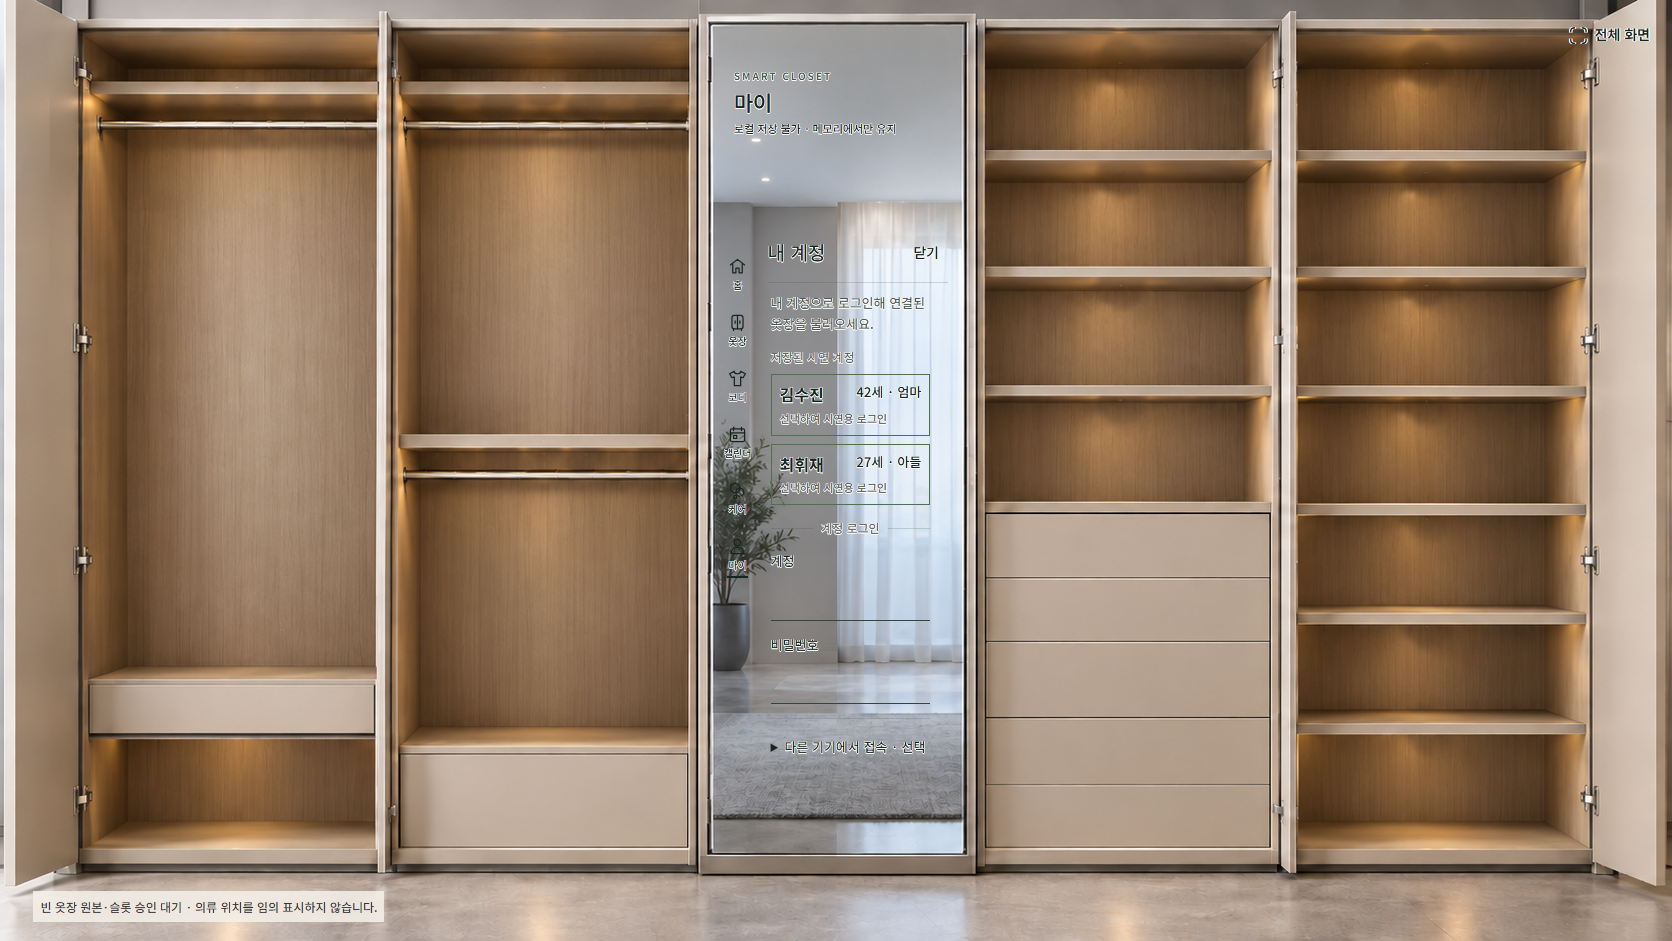
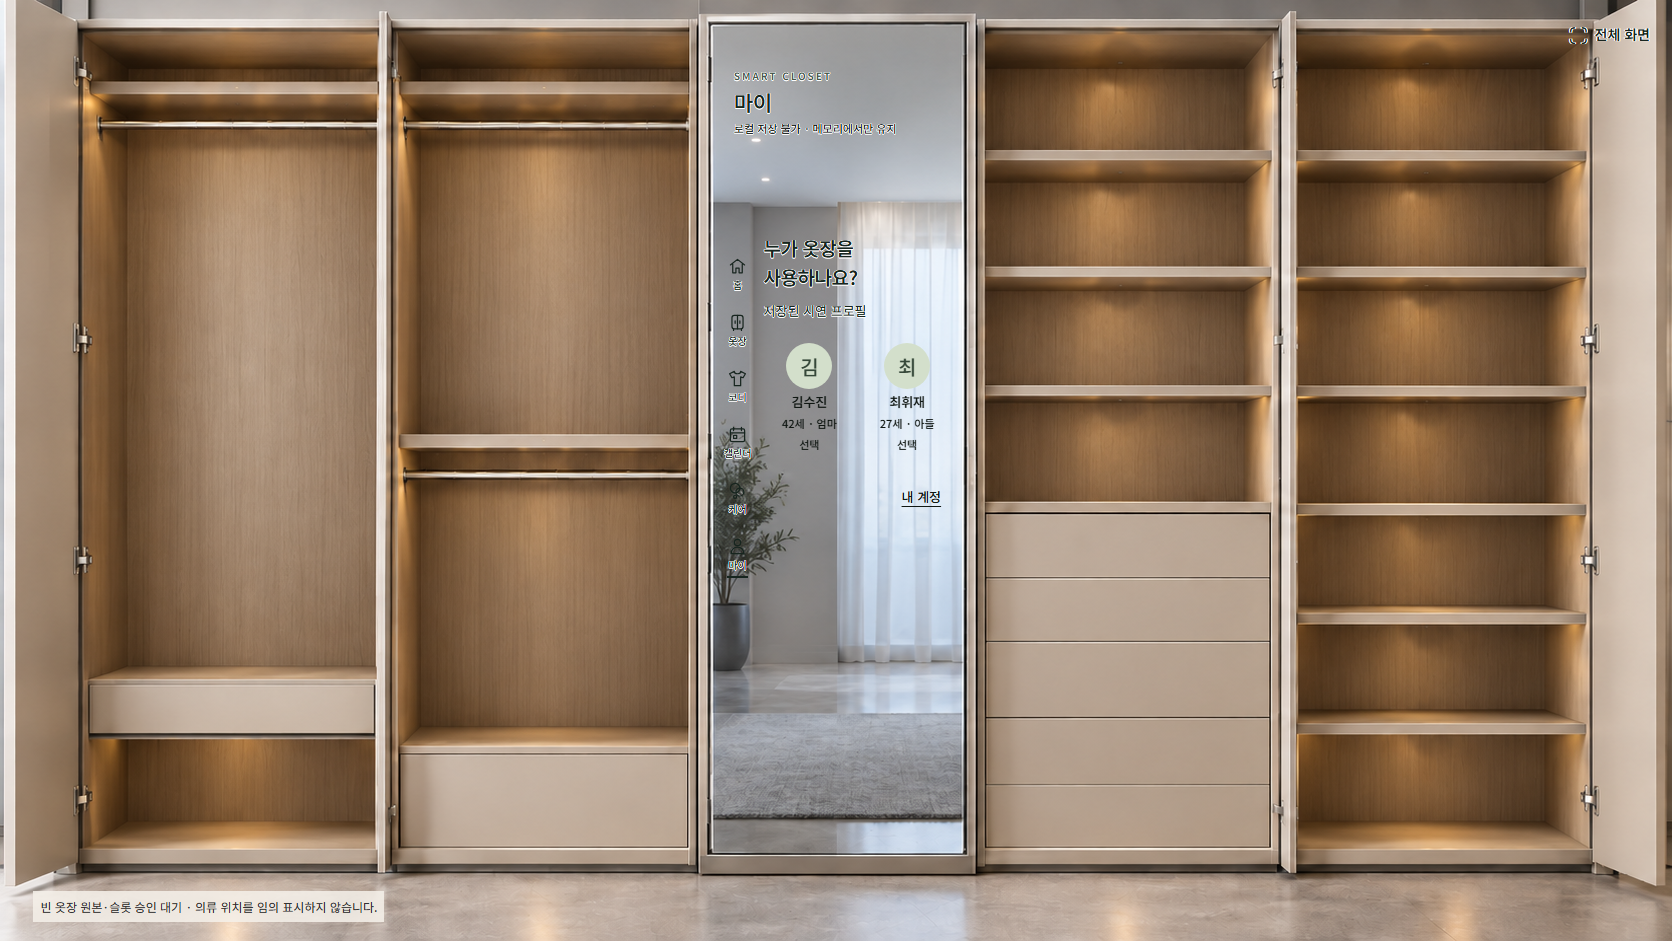
fix: place demo personas in wardrobe profile selector

diff --git a/web/src/mirror/source/MirrorProfiles.tsx b/web/src/mirror/source/MirrorProfiles.tsx
@@ -1,8 +1,9 @@
-import { useState, useSyncExternalStore } from "react";
+import { useEffect, useState, useSyncExternalStore } from "react";
 import type { DemoApp } from "./core/app";
 import { HorizontalPager } from "./HorizontalPager";
 import { permittedMirrorProfiles } from "./mirrorPanelData";
 import "./mirror-panels.css";
+import { HttpRemoteBackend, currentMember } from "./integrations/backendClient";
 
 export function MirrorProfiles({
   app,
@@ -16,7 +17,25 @@ export function MirrorProfiles({
   const state = useSyncExternalStore(app.subscribe, app.getState),
     [page, setPage] = useState(0),
     local = app.connection.kind === "local";
-  const profiles = permittedMirrorProfiles(state, app.connection.kind),
+  const [demoProfiles, setDemoProfiles] = useState<Awaited<ReturnType<HttpRemoteBackend["demoProfiles"]>>>([]);
+  const [busy, setBusy] = useState(false), [error, setError] = useState("");
+  useEffect(() => {
+    let active = true;
+    void new HttpRemoteBackend().demoProfiles().then(items => {
+      if (active) setDemoProfiles(items);
+    }).catch(() => { if (active) setDemoProfiles([]); });
+    return () => { active = false; };
+  }, []);
+  const profiles = [
+    ...demoProfiles.map(profile => ({id: `saved-demo-${profile.profile}`, name: profile.display_name,
+      details: `${profile.age}세 · ${profile.relationship}`, demo: profile.profile,
+      selected: currentMember()?.display_name === profile.display_name})),
+    ...permittedMirrorProfiles(state, app.connection.kind)
+      .filter(profile => !demoProfiles.length || (!["demo-profile", "signed-out"].includes(profile.id) &&
+        !demoProfiles.some(demo => demo.display_name === profile.name)))
+      .map(profile => ({...profile, details: "", demo: undefined,
+        selected: profile.id === state.activeProfileId})),
+  ],
     pages = Array.from({ length: Math.ceil(profiles.length / 4) }, (_, index) =>
       profiles.slice(index * 4, index * 4 + 4),
     );
@@ -28,7 +47,7 @@ export function MirrorProfiles({
         사용하나요?
       </h1>
       <p className="mx-panel-note">
-        {local ? "이 브라우저의 시연 프로필" : "현재 로그인에 허용된 프로필"}
+        {demoProfiles.length ? "저장된 시연 프로필" : local ? "이 브라우저의 시연 프로필" : "현재 로그인에 허용된 프로필"}
       </p>
       <HorizontalPager
         index={Math.min(page, Math.max(0, pages.length - 1))}
@@ -46,21 +65,39 @@ export function MirrorProfiles({
                 key={profile.id}
                 data-profile-id={profile.id}
                 aria-label={`${profile.name} 프로필 선택`}
-                aria-pressed={profile.id === state.activeProfileId}
-                onClick={() => onSelectProfile(profile.id)}
+                aria-pressed={profile.selected}
+                disabled={busy}
+                onClick={async () => {
+                  if (!profile.demo) { onSelectProfile(profile.id); return; }
+                  if (profile.selected) return;
+                  setBusy(true); setError("");
+                  try {
+                    const client = new HttpRemoteBackend();
+                    if (currentMember()) await client.logout();
+                    await app.configureRemote();
+                    await client.demoLogin(profile.demo);
+                    await app.configureRemote(client);
+                  } catch (e) {
+                    await new HttpRemoteBackend().logout().catch(() => {});
+                    await app.configureRemote();
+                    setError((e as Error).message);
+                  } finally { setBusy(false); }
+                }}
               >
                 <span className="mx-profile-avatar" aria-hidden="true">
                   {Array.from(profile.name.trim())[0] ?? "나"}
                 </span>
                 <strong>{profile.name}</strong>
+                {profile.details && <small>{profile.details}</small>}
                 <small>
-                  {profile.id === state.activeProfileId ? "사용 중" : "선택"}
+                  {profile.selected ? "사용 중" : "선택"}
                 </small>
               </button>
             ))}
           </div>
         ))}
       </HorizontalPager>
+      {error && <p role="alert" className="mx-panel-note">{error}</p>}
       {!local && profiles.length === 1 && (
         <p className="mx-panel-note">
           현재 로그인 계정의 프로필을 표시해요. 연결된 기기의 의류는 함께 조회할

diff --git a/web/src/mirror/source/BackendPanel.tsx b/web/src/mirror/source/BackendPanel.tsx
@@ -38,14 +38,6 @@ export function BackendPanel({
     [message, setMessage] = useState(""),
     [busy, setBusy] = useState(false);
   const connected = !!currentMember();
-  const [profiles, setProfiles] = useState<Awaited<ReturnType<HttpRemoteBackend["demoProfiles"]>>>([]);
-  useEffect(() => {
-    let active = true;
-    void new HttpRemoteBackend().demoProfiles().then(items => {
-      if (active) setProfiles(items);
-    }).catch(() => { if (active) setProfiles([]); });
-    return () => { active = false; };
-  }, []);
   const submit = async () => {
     setBusy(true);
     try {
@@ -127,27 +119,14 @@ export function BackendPanel({
           }}
         >
           <p className="mirror-account-intro">내 계정으로 로그인해 연결된 옷장을 불러오세요.</p>
-          {profiles.length > 0 ? <div className="mirror-demo-profiles">
-            <span className="mirror-account-caption">저장된 시연 계정</span>
-            {profiles.map(profile => <button
-              key={profile.profile}
-              className="mirror-account-demo mirror-demo-profile"
-              type="button"
-              disabled={busy}
-              onClick={() => void demoLogin(profile.profile)}
-            >
-              <strong>{profile.display_name}</strong>
-              <span>{profile.age}세 · {profile.relationship}</span>
-              <small>선택하여 시연용 로그인</small>
-            </button>)}
-          </div> : <button
+          <button
             className="mirror-account-demo"
             type="button"
             disabled={busy}
             onClick={() => void demoLogin()}
           >
             시연용 로그인
-          </button>}
+          </button>
           <div className="mirror-account-divider"><span>계정 로그인</span></div>
           <label>
             계정

diff --git a/web/src/mirror/source/mirror-account.css b/web/src/mirror/source/mirror-account.css
@@ -40,11 +40,6 @@
 .mx-auth-dialog .mirror-account-optional p { margin: 0 0 12px; font-size: 12px; }
 .mirror-account-identity { display: flex; flex-direction: column; gap: 6px; }
 .mirror-account-caption { font-size: 12px; color: #576257; }
-.mirror-demo-profiles { display: flex; flex-direction: column; gap: 8px; }
-.mirror-demo-profile { display: grid; grid-template-columns: 1fr auto; gap: 4px 8px; text-align: left; }
-.mirror-demo-profile strong { font-size: 16px; }
-.mirror-demo-profile span { font-size: 13px; }
-.mirror-demo-profile small { grid-column: 1 / -1; font-size: 11px; color: #576257; }
 .mx-auth-dialog .mirror-account-identity > strong { font-size: 18px; }
 .mx-auth-dialog .mirror-account-device p { margin: 0; font-size: 12px; font-family: monospace; }
 .mx-auth-dialog .mirror-account-actions { display: flex; flex-direction: column; gap: 8px; }

diff --git a/docs/handoff/SMART_WARDROBE_CODEX_HANDOFF_2026-10-11/reports/REMEDIATION_CHECKPOINT.md b/docs/handoff/SMART_WARDROBE_CODEX_HANDOFF_2026-10-11/reports/REMEDIATION_CHECKPOINT.md
@@ -59,8 +59,8 @@ shower cold read는 판정/재개 발췌문을 읽었으며 전체 보고서 검
 
 기존 가족 구성원은 4명이며 아빠·딸 데이터도 유지한다. 저장된 시연 로그인 버튼만 엄마·아들 두 개로 제공한다. 공개 환경 차단 테스트는 목록 items=[] 및 프로필 선택 로그인403을 실DB 테스트로 확인했다. 이번 계정 기능은 검증 통과했으며, 전체 PARTIAL은 앞서 기록한 카드 Gate A/B 등 별도 미완료 사항에 대한 판정이다.
 
-마이 → 내 계정에 두 프로필을 저장된 시연 계정으로 표시한다. 선택 시 실제 JWT 세션을 발급한다. 두 사람이 동시에 로그인된 것으로 꾸미거나 비밀번호·토큰을 카드에 저장하지 않는다. 로그아웃 후에도 프로필 두 개를 다시 선택할 수 있다. 전환은 로그아웃 → 다른 프로필 선택 순서다.
+마이의 **누가 옷장을 사용하나요?** 기존 프로필 선택 화면에 김수진·최휘재 두 프로필을 표시한다. 내 계정에 잘못 추가했던 선택 UI는 제거했다. 이름·나이·엄마/아들·사용 중 상태는 기존 프로필 디자인으로 표시한다. 선택 시 실제 JWT 세션을 발급하며, 다른 프로필 선택 시 이전 세션을 서버에서 로그아웃한 다음 새로 로그인한다. 비밀번호·토큰을 카드에 저장하지 않는다. 로그인 필요/기본 시연 사용자 placeholder는 두 프로필이 제공될 때 표시하지 않는다. 일반 로그인 계정은 기존 허용 프로필 계약을 유지하고 가족 계정으로 위임하지 않는다.
 
 GET /integration/demo-profiles 및 기존 POST /integration/demo-login의 선택적 profile=mother|son을 추가했다. 기존 빈 요청 로그인과 공개 demo 경로는 유지한다. 로컬 프로필 선택은 비공개 local/test DEMO에서만 허용하며 enabled credential·명시적 member ID·같은 가구의 기기 접근을 확인한다. 엄마 OWNER 역할은 명시적 로컬 엄마 ID에만 허용한다. 운영·공개 배포에서는 프로필 목록이 비어 있고 이 선택 경로는 차단된다.
 
-재현: 루트 `.venv/Scripts/python.exe scripts/remediation_local.py personas`(격리 DB 이름만 갱신), `serve`(API 18081; LOCAL_DEMO_MEMBER_ID 및 LOCAL_DEMO_MOTHER_MEMBER_ID 자동 설정). web에서 `npm run dev -- --host 127.0.0.1 --port 5193`, `node test/demo-personas-browser.mjs`. 브라우저 테스트는 두 계정 각각 로그인 → 가족 의류52/사진52/소유자4 → 로그아웃 → 프로필 재표시를 확인했다. 계정 ID 서로 다름, page error0, PASS. backend demo-login 실DB4 tests 및 web38 tests PASS, TypeScript/Vite build·Ruff PASS(기존 bundle 크기 경고). 증적: evidence/remediation/demo-personas.png 및 demo-personas-browser.json. API 재기동 후 최신 기능 제공, 원격push/배포/운영 DB 변경 없음. 전체 시정 PARTIAL 판정 유지.
+재현: 루트 `.venv/Scripts/python.exe scripts/remediation_local.py personas`(격리 DB 이름만 갱신), `.venv/Scripts/python.exe scripts/remediation_local.py serve`(API 18081; 두 로컬 ID 자동 설정). web에서 `npm run dev -- --host 127.0.0.1 --port 5193`, `node test/demo-personas-browser.mjs`. 브라우저 테스트는 마이 → 프로필 선택에서 엄마 → 아들 → 엄마 직접 전환, 각 계정 가족 의류52/사진52/소유자4, 사용 중 표시, 내 계정에 프로필 카드 없음까지 확인했다. 계정 ID 서로 다름, page error0, PASS. 기존 backend demo-login 실DB4 tests 및 web38 tests PASS; 이번 UI 위치 수정 후 TypeScript/Vite build PASS(기존 bundle 크기 경고). 증적: evidence/remediation/demo-personas.png 및 demo-personas-browser.json. 원격push/배포/운영 DB 변경 없음. 전체 시정 PARTIAL 판정 유지.
